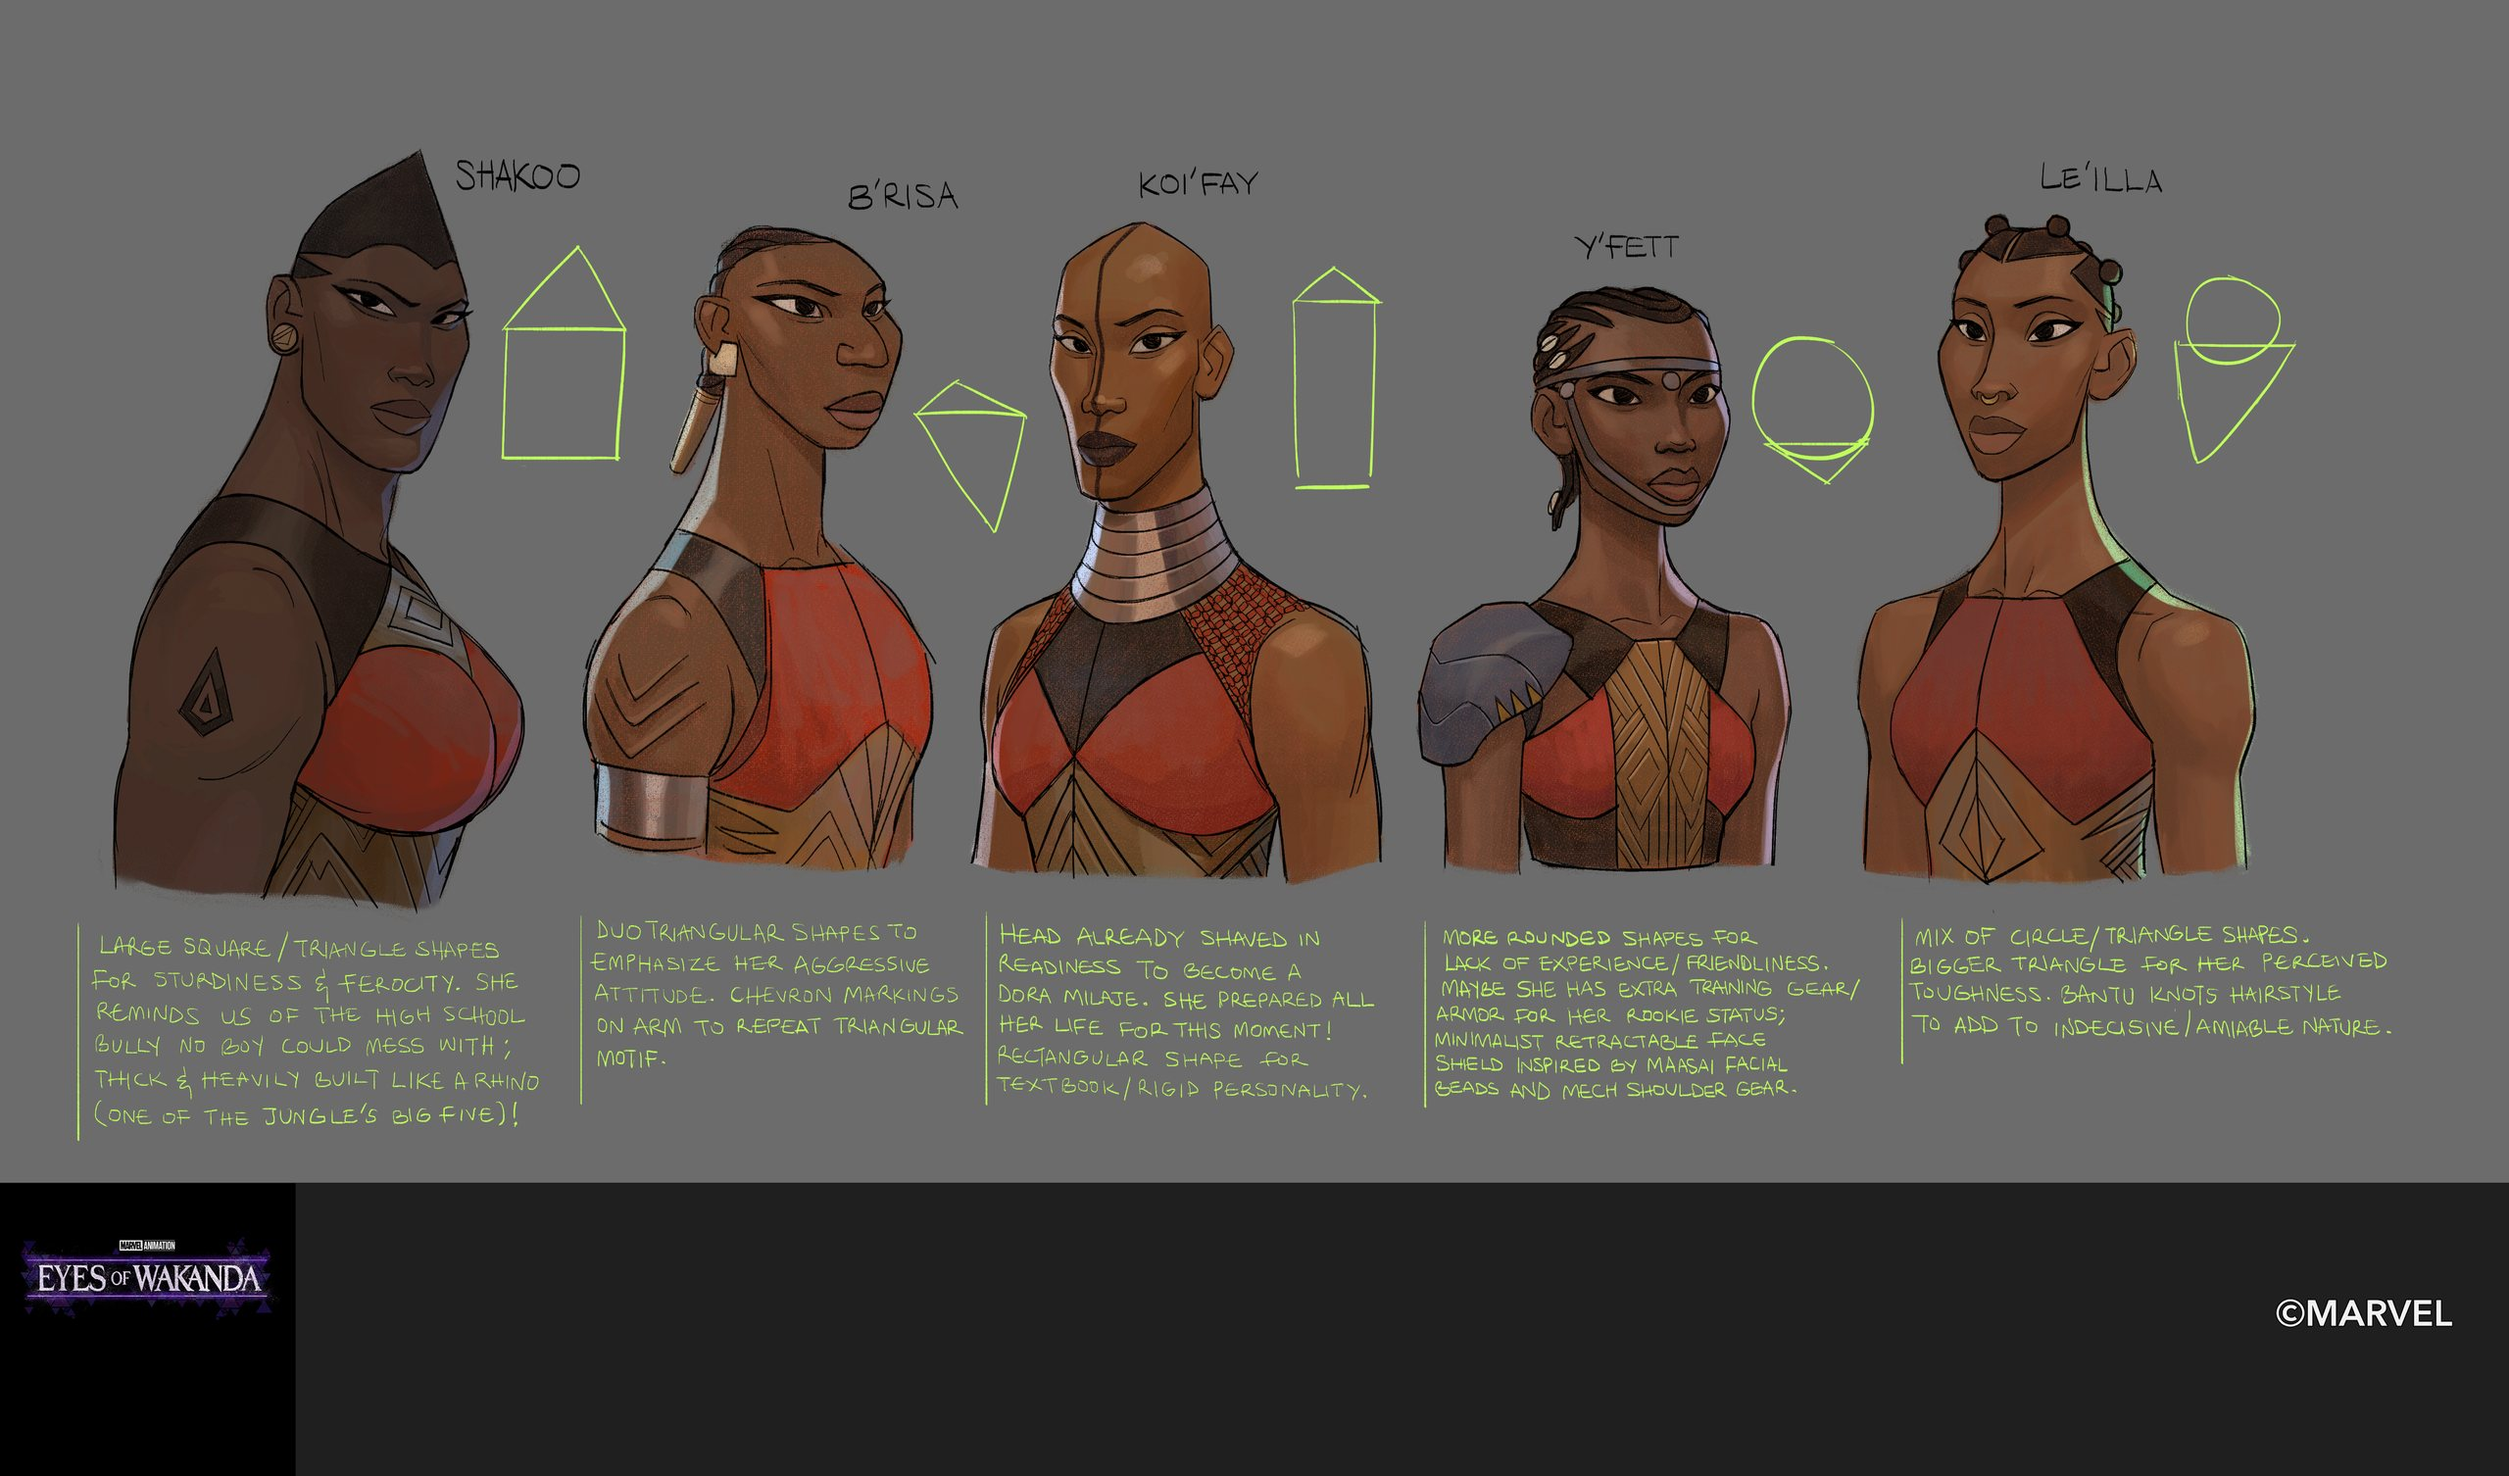
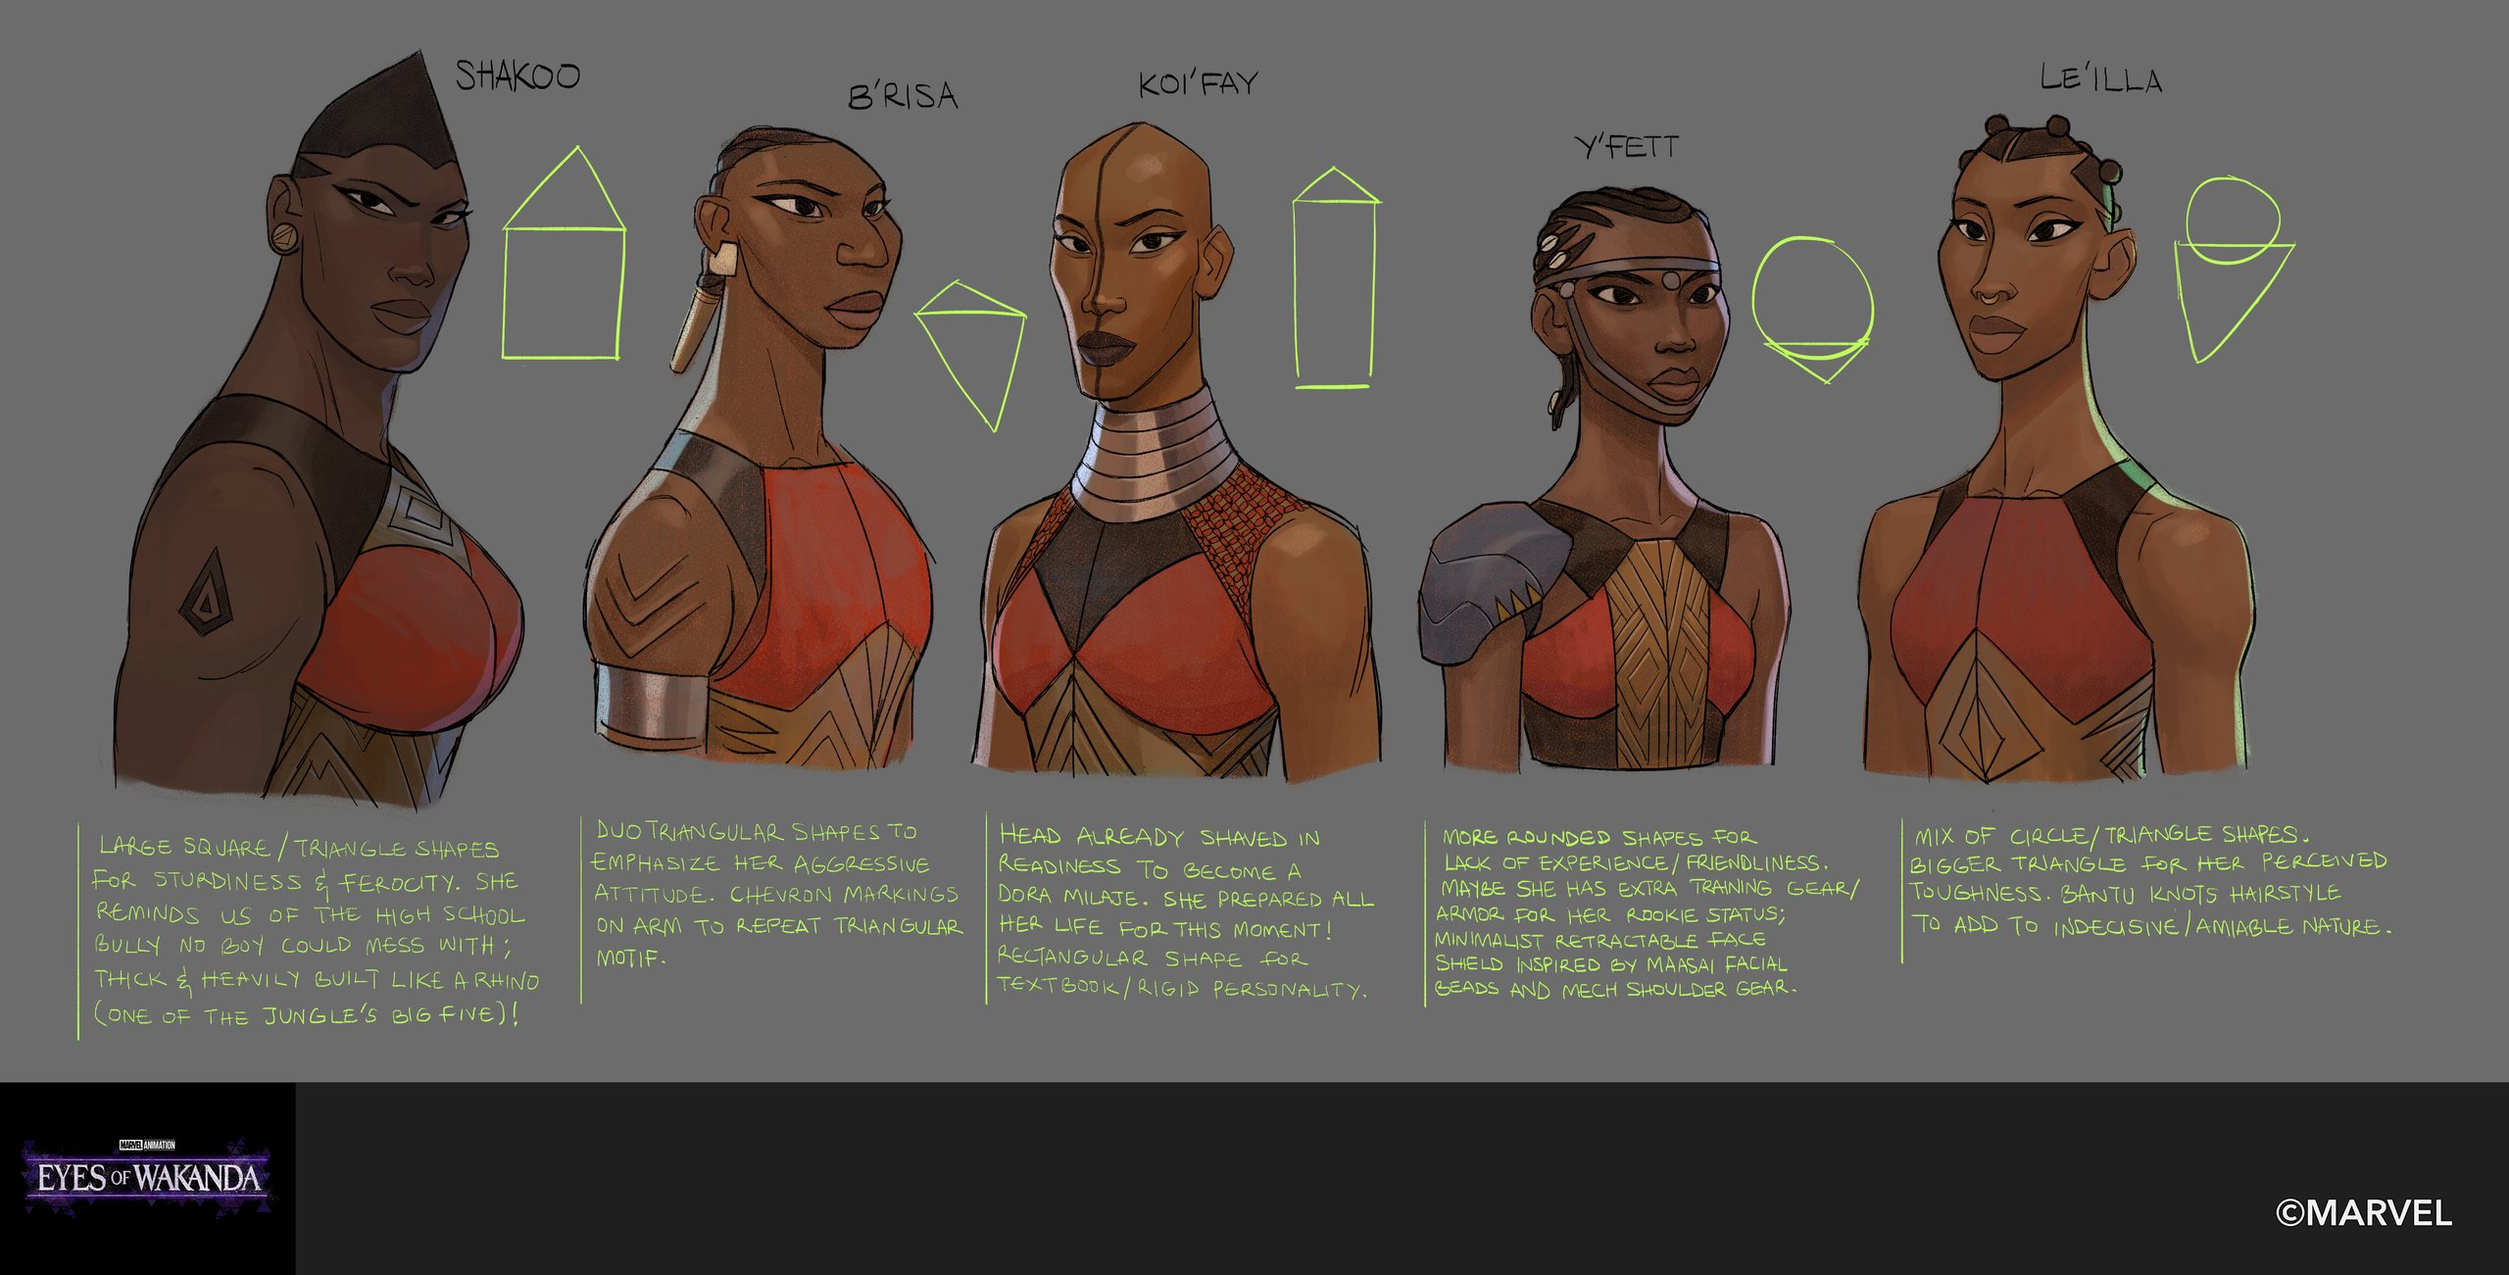
No band at all: the hero file is the sheet and nothing else
The colour above and below the artwork was there to keep the whole sheet
in frame on a window narrower than the sheet. Thinning it did not help —
any band at all is space, and on a phone the window shows all of it.

So there is none. The file is the sheet, edge to edge, at every size.

The price is the ©MARVEL mark. Below 1.97 the sheet's height fills the
window and the trim comes off the width, and anchored left, the far right
goes first: on an ordinary desktop that is the mark, and a little of
Le'illa with it. The Eyes of Wakanda page carries the whole sheet
uncropped, which is where it can be read.

The type gets bigger out of it — 63px at 1440 rather than 56 — because
the clear band across the bodies is now 0.216 of the frame rather than
0.187. Its middle is the sheet's own middle, so `cover` puts it on the
window's middle with no offset: 7.67vh where the height leads, 3.9vw
where the width does, matched at 1.97. Rechecked at eight sizes: clear
of the faces, clear of the notes, dead centre.

Claude-Session: https://claude.ai/code/session_01DEqnCik8NnWEAN8PztyZyx

diff --git a/css/site.css b/css/site.css
@@ -256,9 +256,10 @@ ul { list-style: none; }
 
    It is anchored left, which is the direction it should give way in: a
    wide window holds the whole line-up, a narrow one closes in on Shakoo
-   and the Eyes of Wakanda logo beside her. The file carries a band of
-   the sheet's own grey top and bottom (tools/prep_hero_landing.py) so a
-   window shorter than 1.60 never crops the artwork's height. */
+   and the Eyes of Wakanda logo beside her. The file is the sheet and
+   nothing else — no band above or below it at any size — so what gives
+   way on a window narrower than 1.97 is the ©MARVEL mark at the far
+   right, which the Eyes of Wakanda page carries uncropped. */
 
 body.is-hero {
   height: 100dvh;
@@ -328,13 +329,14 @@ body.is-hero {
      behind it rather than running off a short window. The third term
      caps it so the award line always fits across in one piece — it is
      that line's own width in ems. */
-  /* Held to the clear band across the bodies — measured off the artwork
-     at 0.406 to 0.593 of the file's height, so 0.187 of it, and three
-     lines at 0.94 leading fill that at --fit. Below 1.70 the sheet's
-     height fills the window and the band is a share of that; above it
-     the width leads instead. The two are equal at 1.70, so nothing
-     shifts as the window crosses it. */
-  --fit: 6.63vh;
+  /* Held to the clear band across the bodies — the sheet's own ink runs
+     heads from 0.14, bodies from 0.392, notes from 0.646, so the band is
+     0.392 to 0.608 and its middle is the sheet's middle, which is where
+     `cover` puts the window's middle. Three lines at 0.94 leading fill
+     that 0.216 at --fit. Below 1.97 the sheet's height fills the window
+     and the band is a share of that; above it the width leads instead.
+     The two are equal at 1.97, so nothing shifts across it. */
+  --fit: 7.67vh;
   font-size: clamp(1.25rem, min(var(--fit), (100vw - 2 * var(--gutter)) / 14.3), 5.5rem);
   line-height: 0.94;
   letter-spacing: -0.025em;
@@ -348,7 +350,7 @@ body.is-hero {
   transition: opacity 0.25s ease, text-shadow 0.25s ease;
 }
 
-@media (min-aspect-ratio: 17/10) {
+@media (min-aspect-ratio: 59/30) {
   .titlecard__line { --fit: 3.9vw; }
 }
 

diff --git a/tools/prep_hero_landing.py b/tools/prep_hero_landing.py
@@ -5,28 +5,18 @@ One file. The window's shape crops it, and because there is only one
 file the crop moves with the window instead of switching between fixed
 versions — drag the edge and the sheet slides, it never cuts.
 
-That rules out framing each device separately. What it needs instead is
-a single frame that degrades in the right direction, which is what the
-left edge gives: the sheet is anchored there, so a wide window holds the
-whole line-up and a narrow one closes in on Shakoo and the Eyes of
-Wakanda logo beside her. Nothing pops.
+No padding: the file is the sheet and nothing else, so there is no band
+of anything above or below it at any size. The sheet's own top and
+bottom edge are the frame's.
 
-The sheet is 6167 x 3135 — a 1.97 landscape, wider than most windows —
-so a bare `cover` would eat the top and bottom of it. It is sat on a
-band of its own colour instead, top and bottom, until the file is 1.70.
-Above that ratio the artwork spans the window edge to edge with the
-©MARVEL mark still in frame; below it, the band holds the full height of
-the sheet and the trim comes off the right.
-
-The band is as thin as that promise allows. A window shows all of it
-when the window is the narrower shape, so every pixel of band is a pixel
-of nothing at the top and bottom of a phone.
-
-The band above is the grey of the field. The band below is the black of
-the ©MARVEL bar, carried down from the sheet's own last row so the logo
-plate comes with it — on a phone that band is on screen, and grey there
-would read as a strip of empty page under the artwork rather than as
-part of it.
+That has a price. The sheet is a 1.97 landscape and most windows are
+narrower than that, so on most windows the height fills and the trim
+comes off the width. It is anchored left, which is the direction it
+should give way in: a wide window holds the whole line-up, a narrow one
+closes in on Shakoo and the Eyes of Wakanda logo beside her. What goes
+first, on anything narrower than 1.97, is the ©MARVEL mark at the far
+right — the whole sheet including that mark is on the Eyes of Wakanda
+page, uncropped.
 """
 
 import os
@@ -38,8 +28,6 @@ SRC = os.path.join(ROOT, "Uzoma Website Images", "Uzoma Website", "Eyes of Wakan
                    "StyleExploration_Dora_Concept_080321_UDunkwu _v001.png")
 OUT = os.path.join(ROOT, "assets", "hero")
 
-GREY = (108, 108, 108)   # the sheet's field, and so the page behind it
-RATIO = 1.70             # above this the whole sheet is in frame
 WIDTHS = (2560, 1600, 1100)
 
 
@@ -47,21 +35,14 @@ def main():
     os.makedirs(OUT, exist_ok=True)
     sheet = Image.open(SRC).convert("RGB")
     sw, sh = sheet.size
-
-    h = round(sw / RATIO)
-    y = (h - sh) // 2
-    canvas = Image.new("RGB", (sw, h), GREY)
-    canvas.paste(sheet, (0, y))
-    canvas.paste(sheet.crop((0, sh - 1, sw, sh)).resize((sw, h - (y + sh))), (0, y + sh))
-    print(f"sheet {sw}x{sh} -> canvas {sw}x{h} ratio {sw / h:.3f}  "
-          f"grey above {y}, bar carried down {h - (y + sh)}")
+    print(f"sheet {sw}x{sh} ratio {sw / sh:.3f}")
 
     for w in WIDTHS:
+        h = round(w * sh / sw)
         out = os.path.join(OUT, f"dora-{w}.jpg")
-        canvas.resize((w, round(w * h / sw)), Image.LANCZOS).save(
+        sheet.resize((w, h), Image.LANCZOS).save(
             out, "JPEG", quality=84, optimize=True, progressive=True)
-        print(f"  {os.path.basename(out):18} {w}x{round(w * h / sw)}  "
-              f"{os.path.getsize(out) // 1024} KB")
+        print(f"  {os.path.basename(out):18} {w}x{h}  {os.path.getsize(out) // 1024} KB")
 
 
 main()
